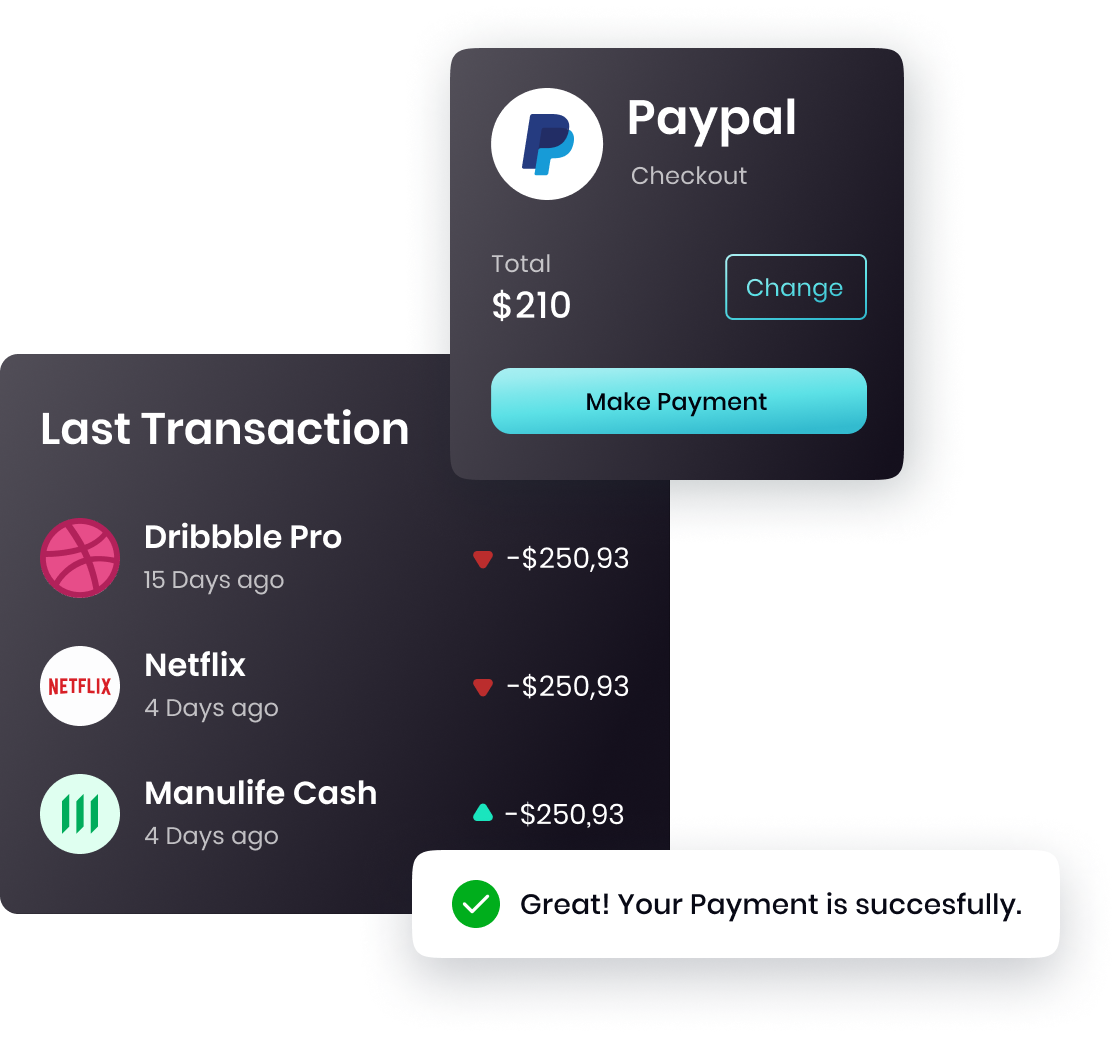
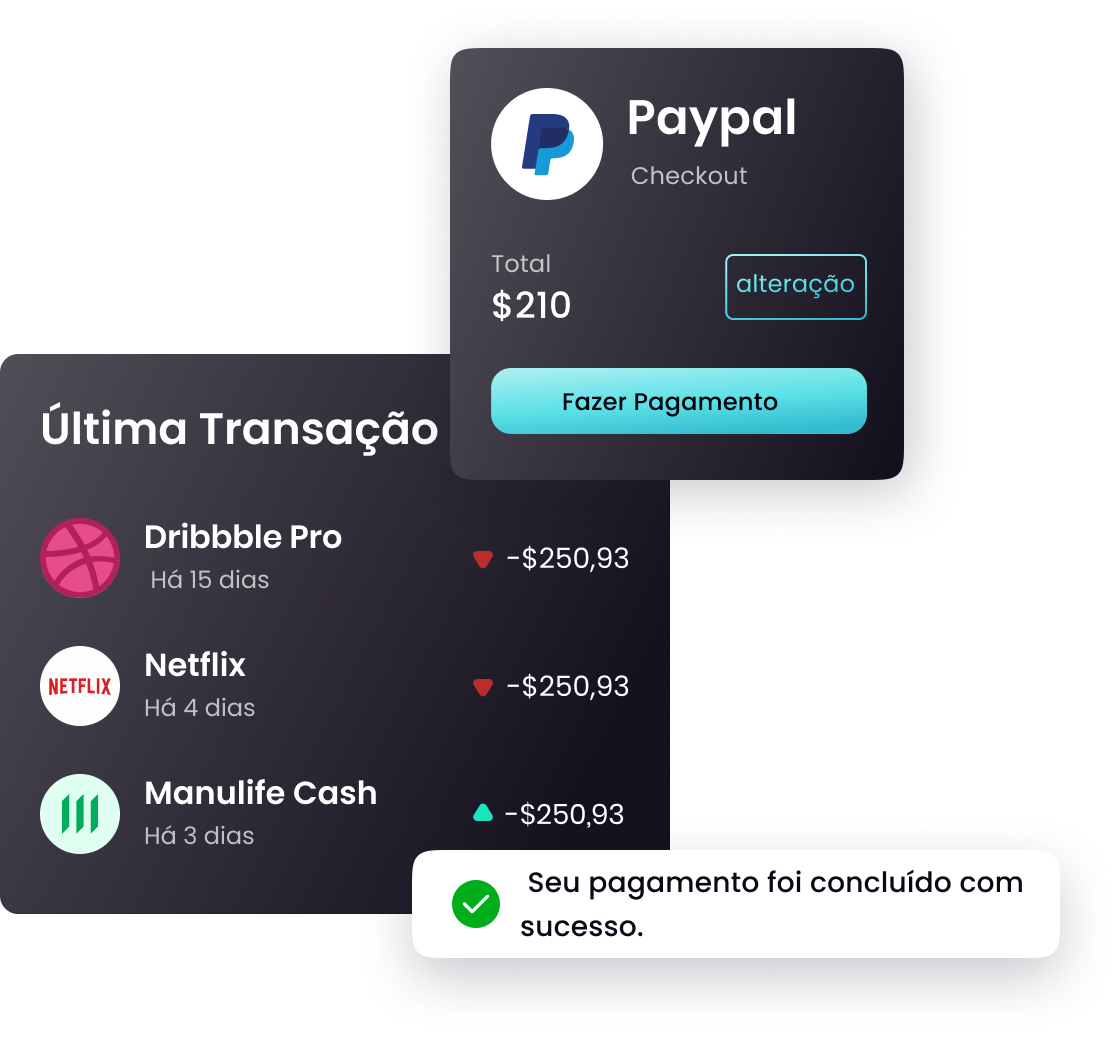
Update

diff --git a/src/constants/index.js b/src/constants/index.js
@@ -3,7 +3,7 @@ import { people01, people02, people03, facebook, instagram, linkedin, twitter, a
 export const navLinks = [
   {
     id: "home",
-    title: "Home",
+    title: "Início",
   },
   {
     id: "features",
@@ -47,25 +47,25 @@ export const feedback = [
   {
     id: "feedback-1",
     content:
-      "Money is only a tool. It will take you wherever you wish, but it will not replace you as the driver.",
+      "O dinheiro é apenas uma ferramenta. Ele te levará aonde desejar, mas não o substituirá como o motorista.",
     name: "Herman Jensen",
-    title: "Founder & Leader",
+    title: "Advogada",
     img: people01,
   },
   {
     id: "feedback-2",
     content:
-      "Money makes your life easier. If you're lucky to have it, you're lucky.",
+      "O dinheiro torna a sua vida mais fácil. Se você tem a sorte de tê-lo, você é sortudo.",
     name: "Steve Mark",
-    title: "Founder & Leader",
+    title: "Médica",
     img: people02,
   },
   {
     id: "feedback-3",
     content:
-      "It is usually people in the money business, finance, and international trade that are really rich.",
+      "Geralmente, são as pessoas no ramo financeiro, finanças e comércio internacional que são realmente ricas.",
     name: "Kenn Gallagher",
-    title: "Founder & Leader",
+    title: "Modelo",
     img: people03,
   },
 ];
@@ -90,43 +90,43 @@ export const stats = [
 
 export const footerLinks = [
   {
-    title: "Useful Links",
+    title: "Recursos Úteis",
     links: [
       {
-        name: "Content",
+        name: "Conteúdo",
         link: "https://www.hoobank.com/content/",
       },
       {
-        name: "How it Works",
+        name: "Como Funciona",
         link: "https://www.hoobank.com/how-it-works/",
       },
       {
-        name: "Create",
+        name: "Criar",
         link: "https://www.hoobank.com/create/",
       },
       {
-        name: "Explore",
+        name: "Explorar",
         link: "https://www.hoobank.com/explore/",
       },
       {
-        name: "Terms & Services",
+        name: "Termos e Condições",
         link: "https://www.hoobank.com/terms-and-services/",
       },
     ],
   },
   {
-    title: "Community",
+    title: "Comunidade",
     links: [
       {
-        name: "Help Center",
+        name: "Central de Ajuda",
         link: "https://www.hoobank.com/help-center/",
       },
       {
-        name: "Partners",
+        name: "Parceiros",
         link: "https://www.hoobank.com/partners/",
       },
       {
-        name: "Suggestions",
+        name: "Sugestões",
         link: "https://www.hoobank.com/suggestions/",
       },
       {
@@ -140,18 +140,19 @@ export const footerLinks = [
     ],
   },
   {
-    title: "Partner",
+    title: "Parceiro",
     links: [
       {
-        name: "Our Partner",
+        name: "Nossos Parceiros",
         link: "https://www.hoobank.com/our-partner/",
       },
       {
-        name: "Become a Partner",
+        name: "Tornar-se um Parceiro",
         link: "https://www.hoobank.com/become-a-partner/",
       },
     ],
   },
+  
 ];
 
 export const socialMedia = [

diff --git a/src/components/NavBar/NavBar.jsx b/src/components/NavBar/NavBar.jsx
@@ -1,11 +1,13 @@
 import { useState } from "react";
 
 import{close,menu,logo} from '../../assets/index';
-import{navLinks} from '../../constants/index'
+import{navLinks} from '../../constants/index';
+
+
 
 const NavBar = () => {
  const [toggle,setToggle] = useState(false);
-
+ 
   return (
     <nav className="w-full flex py-6 justify-between items-center navbar">
        <img src={logo} alt="hooBank" className="w-[124px] h-[32px]" />
@@ -20,13 +22,15 @@ const NavBar = () => {
           </li>
         ))}
        </ul>
+
        <div className="sm:hidden flex flex-1 justify-end items-center ">
         <img src={toggle? close : menu} alt="menu"
         className="w-[28px] h-[28px] object-contain"
         onClick={()=>setToggle((prev)=> !prev)}
         />
        </div>
-       <div className={`${toggle? 'flex':'hidden'} p-6 bg-black-gradient absolute top-20 right-0 mx-4 my-2 min-w-[140px] rounded-xl sidebar`}>
+
+       <div className={`${toggle ? 'flex':'hidden'} p-6 bg-black-gradient absolute top-20 right-0 mx-4 my-2 min-w-[140px] rounded-xl sidebar`}>
        <ul className="list-none flex  flex-col justify-end items-center flex-1">
         {navLinks.map((nav,index)=>(
           <li key={nav.id} 

diff --git a/src/components/Clients/Clients.jsx b/src/components/Clients/Clients.jsx
@@ -6,7 +6,7 @@ const Clients = () => {
     <section className={`${styles.flexCenter} my-4 `}>
       <div className={`${styles.flexCenter} flex-wrap w-full `}>
         {clients.map((client)=>(
-          <div key={client.id} className={`flex-1 ${styles.flexCenter} sm:min-w-[192px] min-w-[120px] `}>
+          <div key={client.id} className={`flex-1 ${styles.flexCenter} sm:min-w-[192px] min-w-[120px]  `}>
             <img src={client.logo} alt="Clientes"  className="sm:w-[192px] w-[100px] object-contain"/>
           </div>
 

diff --git a/src/components/Hero/Hero.jsx b/src/components/Hero/Hero.jsx
@@ -14,6 +14,7 @@ const Hero = () =>
         </p>
         
        </div>
+       
        <div className="flex flex-row justify-between items-center w-full">
         <h1 className="flex-1 font-poppins  font-semibold ss:text-[62px] text-[42px] text-white ">O método de   <br className="sm:block hidden ss:leading-[100px] leading-[72px]"/>{""}  
         pagamento da próxima

diff --git a/src/components/Business/Business.jsx b/src/components/Business/Business.jsx
@@ -1,3 +1,4 @@
+
 import { features } from "../../constants";
 import styles,{layout} from "../../style";
 import Button from "../Button/Button";
